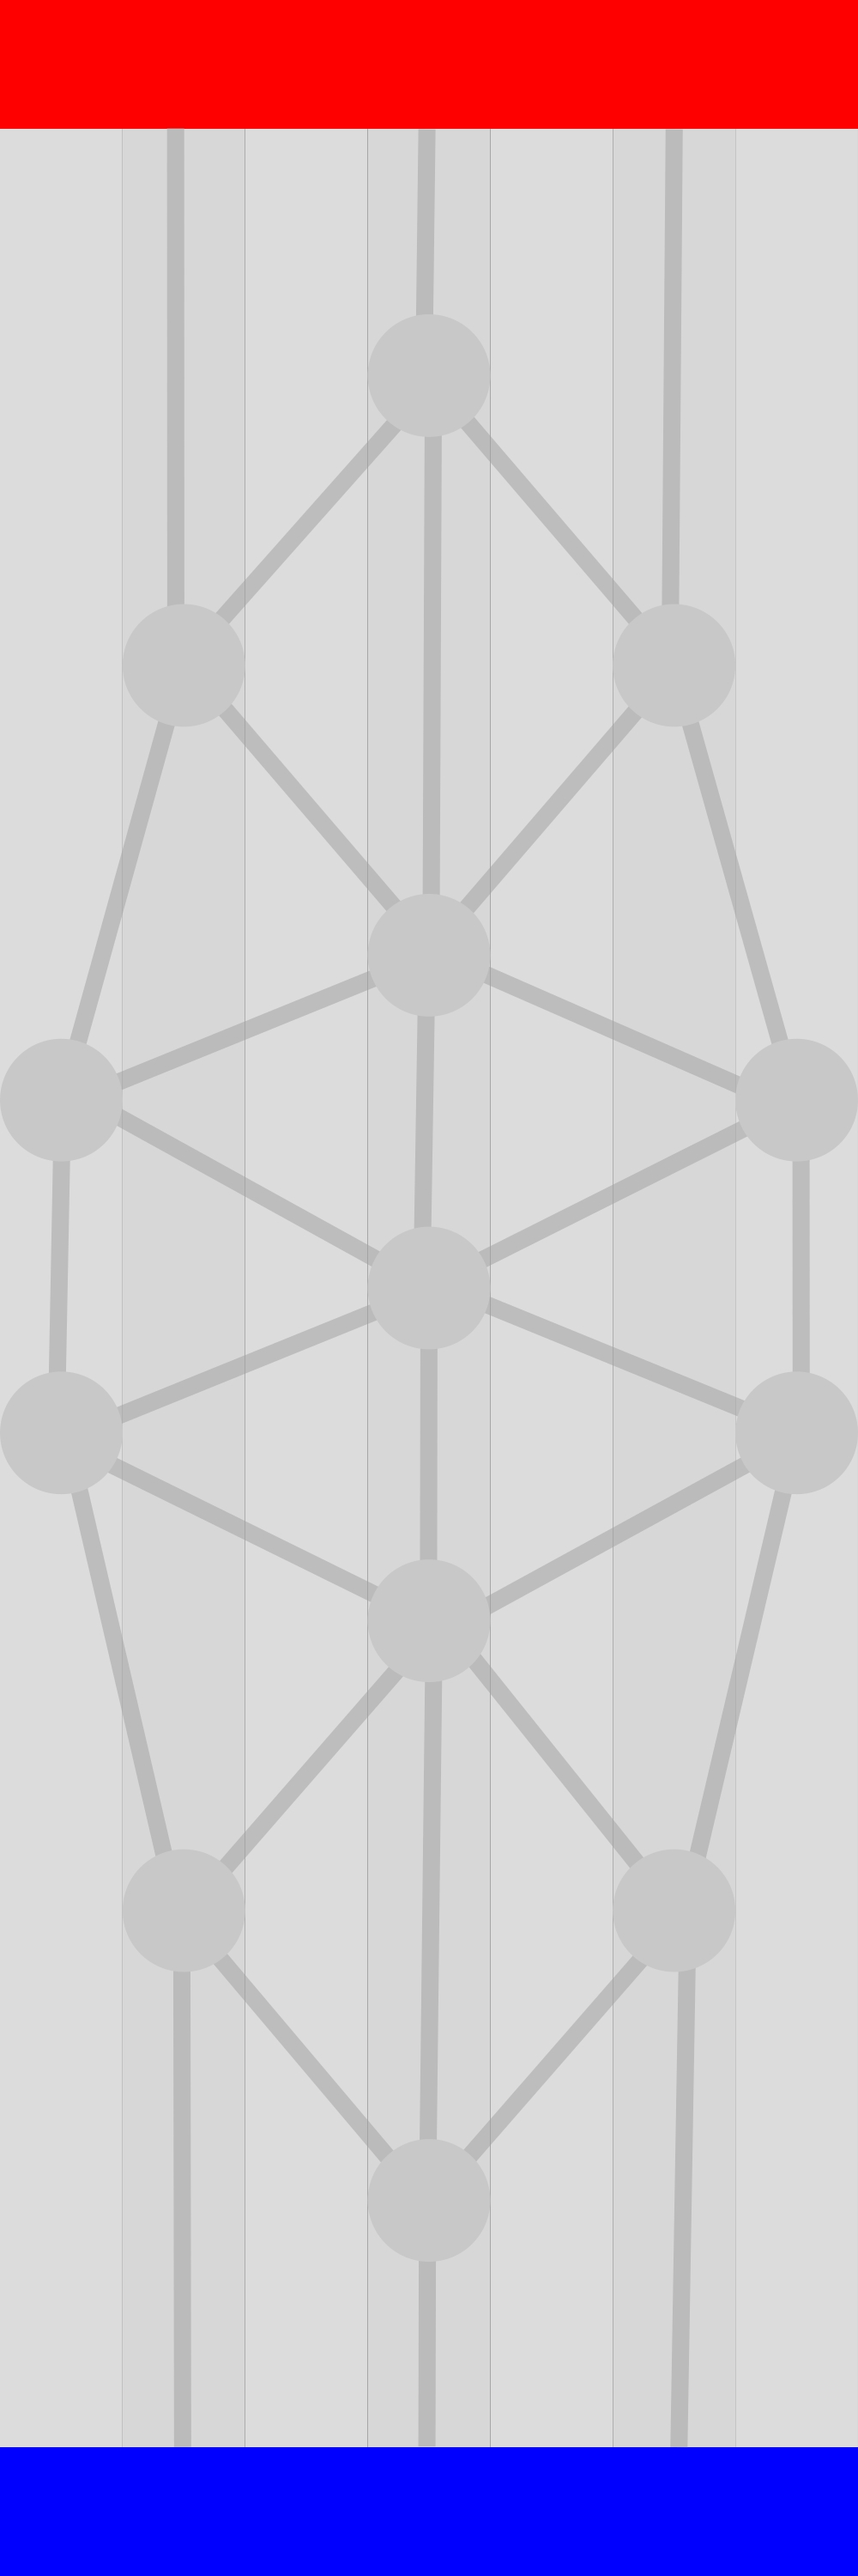
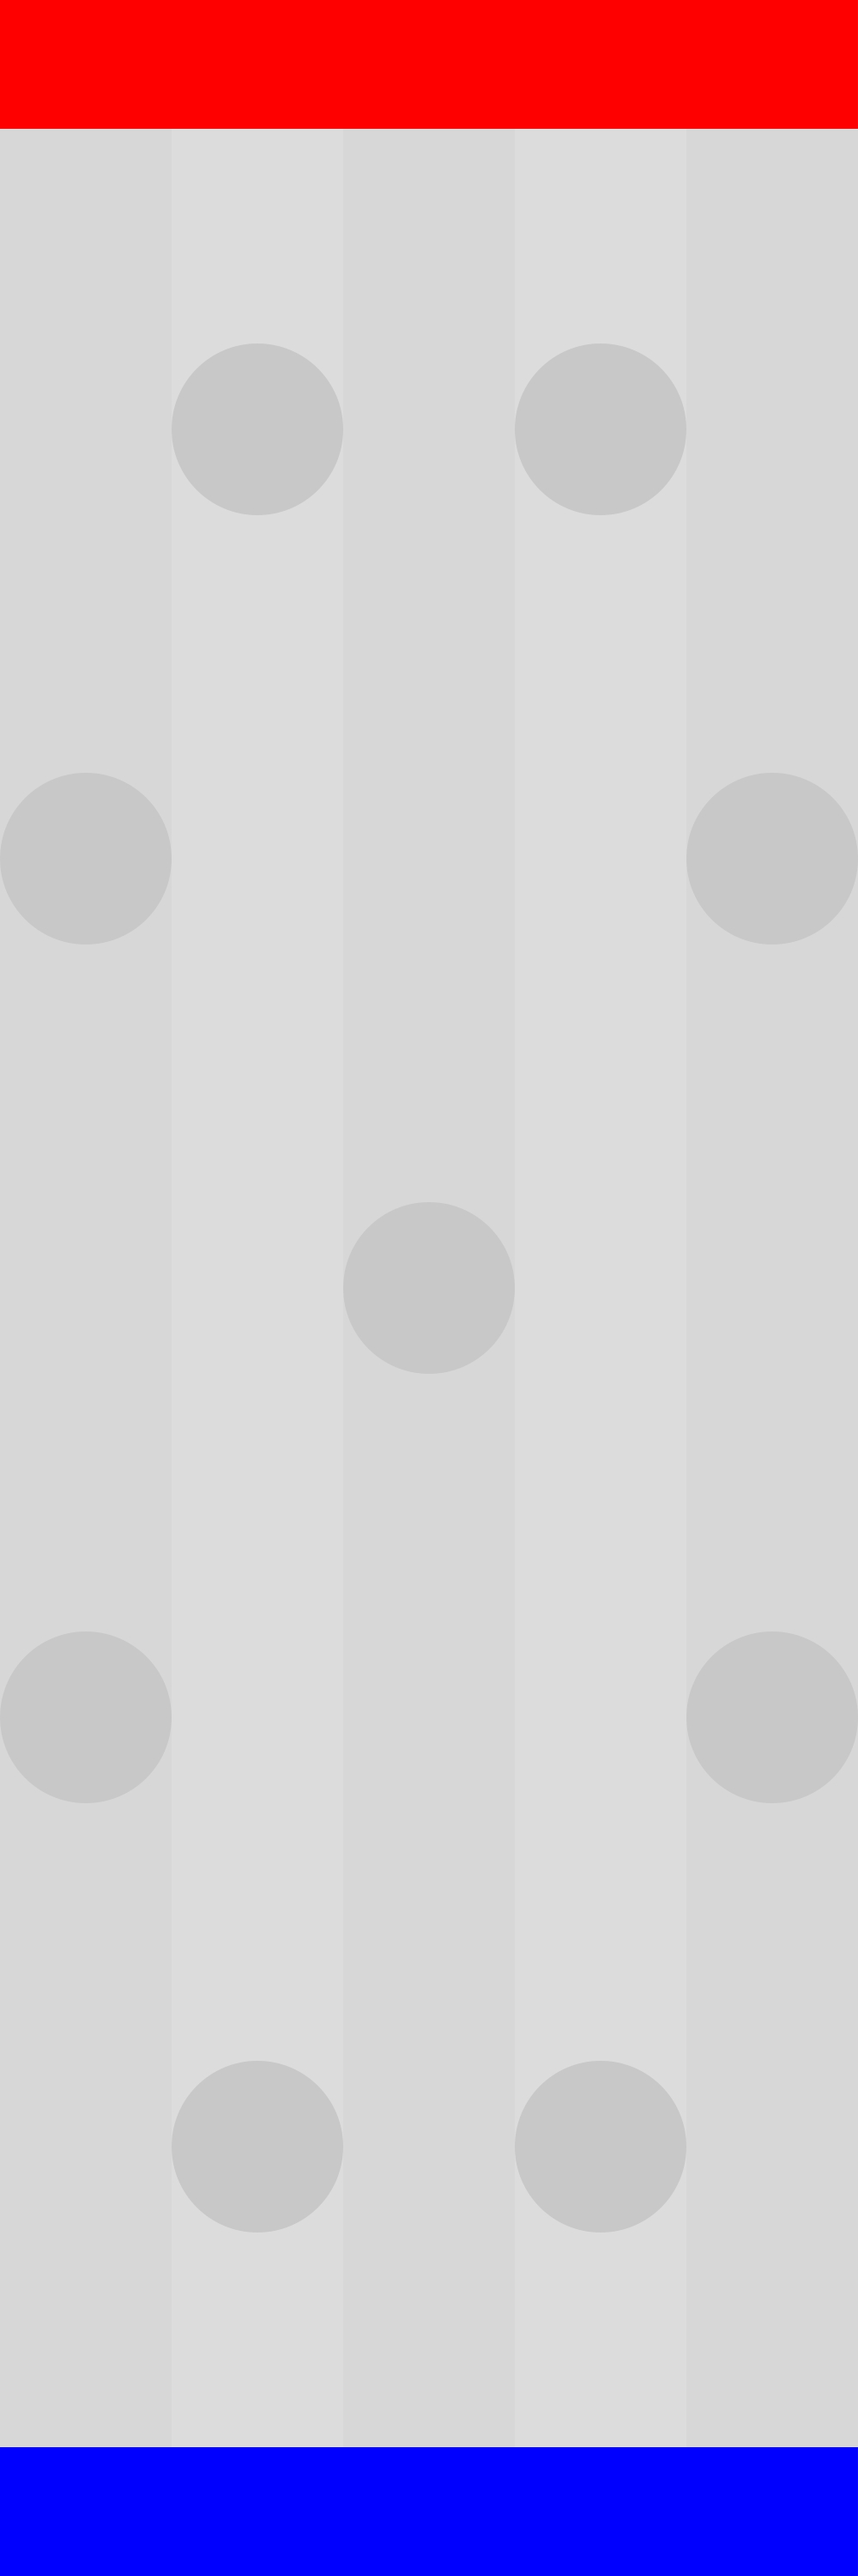
Improvements

diff --git a/frontend/lib/domain/game/game_container.dart b/frontend/lib/domain/game/game_container.dart
@@ -62,7 +62,7 @@ class GameContainer extends FlameGame with PanDetector {
   Color backgroundColor() => Colors.black;
 }
 
-class GameWorld extends World with HasGameRef {
+class GameWorld extends World {
   final GameState gameState;
 
   GameWorld(this.gameState);
@@ -73,6 +73,9 @@ class GameWorld extends World with HasGameRef {
       sprite: gameState.mapSprite,
     ));
     add(Player());
+    add(Node(
+      position: Vector2(100, 100),
+    ));
   }
 }
 
@@ -92,6 +95,15 @@ class Player extends SpriteComponent {
           sprite: Sprites.PLAYER,
           position: Vector2(100, 100),
           size: Vector2(150, 210),
+          anchor: Anchor.center,
+        );
+}
+
+class Node extends SpriteComponent {
+  Node({super.position})
+      : super(
+          sprite: Sprites.NODE,
+          size: Vector2(200, 200),
           anchor: Anchor.center,
         );
 }

diff --git a/frontend/lib/utils/sprites.dart b/frontend/lib/utils/sprites.dart
@@ -4,9 +4,11 @@ import 'package:tensionpath/utils/assets.dart';
 class Sprites {
   static late Sprite PLAYER;
   static late Sprite MAP;
+  static late Sprite NODE;
 
   static Future load() async {
     Sprites.PLAYER = await Sprite.load(Assets.IMAGES_PLAYER);
     Sprites.MAP = await Sprite.load(Assets.IMAGES_MAP);
+    Sprites.NODE = await Sprite.load(Assets.IMAGES_NODE);
   }
 }

diff --git a/frontend/lib/utils/assets.dart b/frontend/lib/utils/assets.dart
@@ -1,4 +1,5 @@
 class Assets {
+  static const String IMAGES_NODE = 'node.png';
   static const String IMAGES_PLAYER = 'player.png';
   static const String IMAGES_MAP = 'map.jpg';
 }
